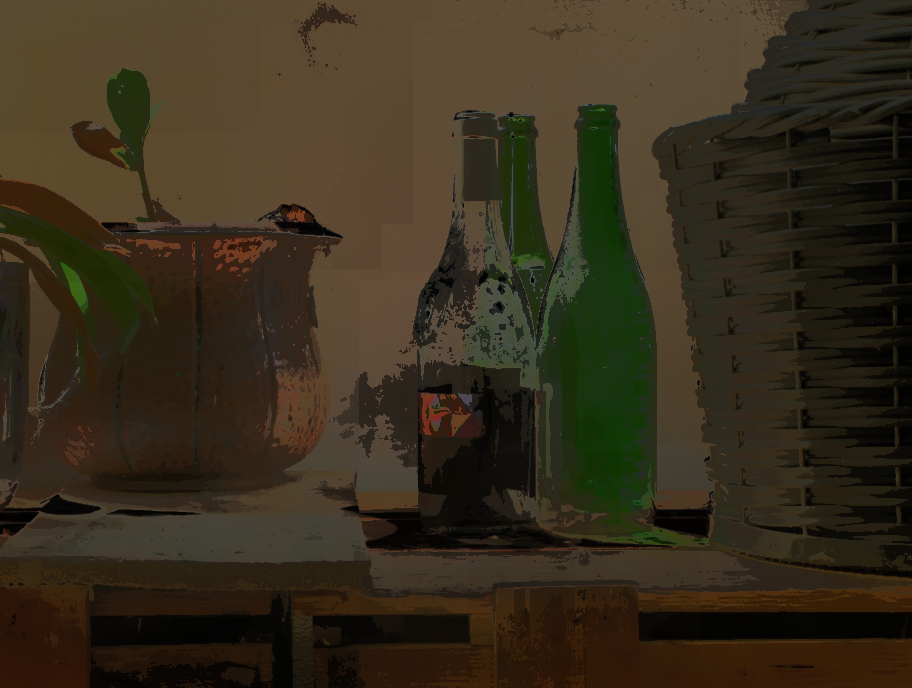
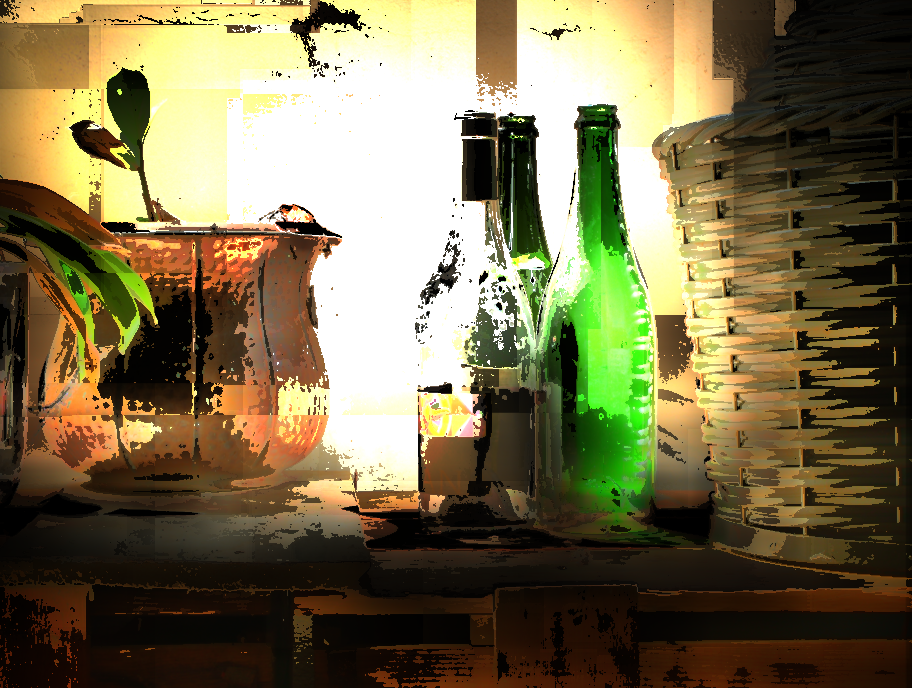
Updated

diff --git a/mshs_tmo.m b/mshs_tmo.m
@@ -6,7 +6,7 @@ hdr     = im2double(hdrread('Bottles_Small.hdr'));
 
 % creating luma
 hdr_y   = 0.299 * hdr(:, :, 1) + 0.587 * hdr(:, :, 2) + 0.114 * hdr(:, :, 3);
-L       = log10(hdr_y);
+L       = log10(hdr_y+0.001);
 [r,c]   = size(L);
 scale   = [1 2 4 8];
 nbins   = 10;
@@ -15,9 +15,9 @@ for i = 1:r
     for j = 1:c
         pix = L(i,j);
         for s = 1:length(scale)
-            dim = ceil(dim/scale(s));
-            w1  = dim(1);
-            w2  = dim(2);
+            w = ceil(dim/scale(s));
+            w1  = w(1);
+            w2  = w(2);
             iMin = max(i-w1,1);
             iMax = min(i+w1,r);
             jMin = max(j-w2,1);
@@ -41,20 +41,8 @@ for i = 1:r
             uk_1    = (N(kthbin-1)/numel(I))*255;
             lmax    = max(I(:));
             lmin    = min(I(:));
-            if isnan(uk)
-                uk = 0;
-            end
-            if isnan(uk_1)
-                uk_1 = 0;
-            end
             ak = (uk - uk_1)/(lmax - lmin);
             bk = uk - ak*lmax;
-            if isnan(ak)
-                ak = 0;
-            end
-            if isnan(bk)
-                bk = 0;
-            end
             d(s)  = ak*pix + bk;
         end
         ldr(i,j) = sum(d.*wak)/sum(wak);
@@ -66,4 +54,4 @@ imgOut = ChangeLuminance(hdr, hdr_y, ldr);
 imshow(uint8(imgOut))
 
 %% 
-imwrite(uint8(imgOut), 'Result.png')
+imwrite(uint8(imgOut.^2.2), 'Result.png')

diff --git a/IntegralImage.m b/IntegralImage.m
@@ -1,0 +1,15 @@
+function [I] = IntegralImage(img)
+[r, c] = size(img); 
+
+for i = 1:r
+    for j = 1:c
+        iMin = 1;
+        iMax = i;
+        jMin = 1;
+        jMax = j;
+        patch = img(iMin:iMax,jMin:jMax);
+        I(i,j) = sum(patch(:));
+    end
+end
+
+end
